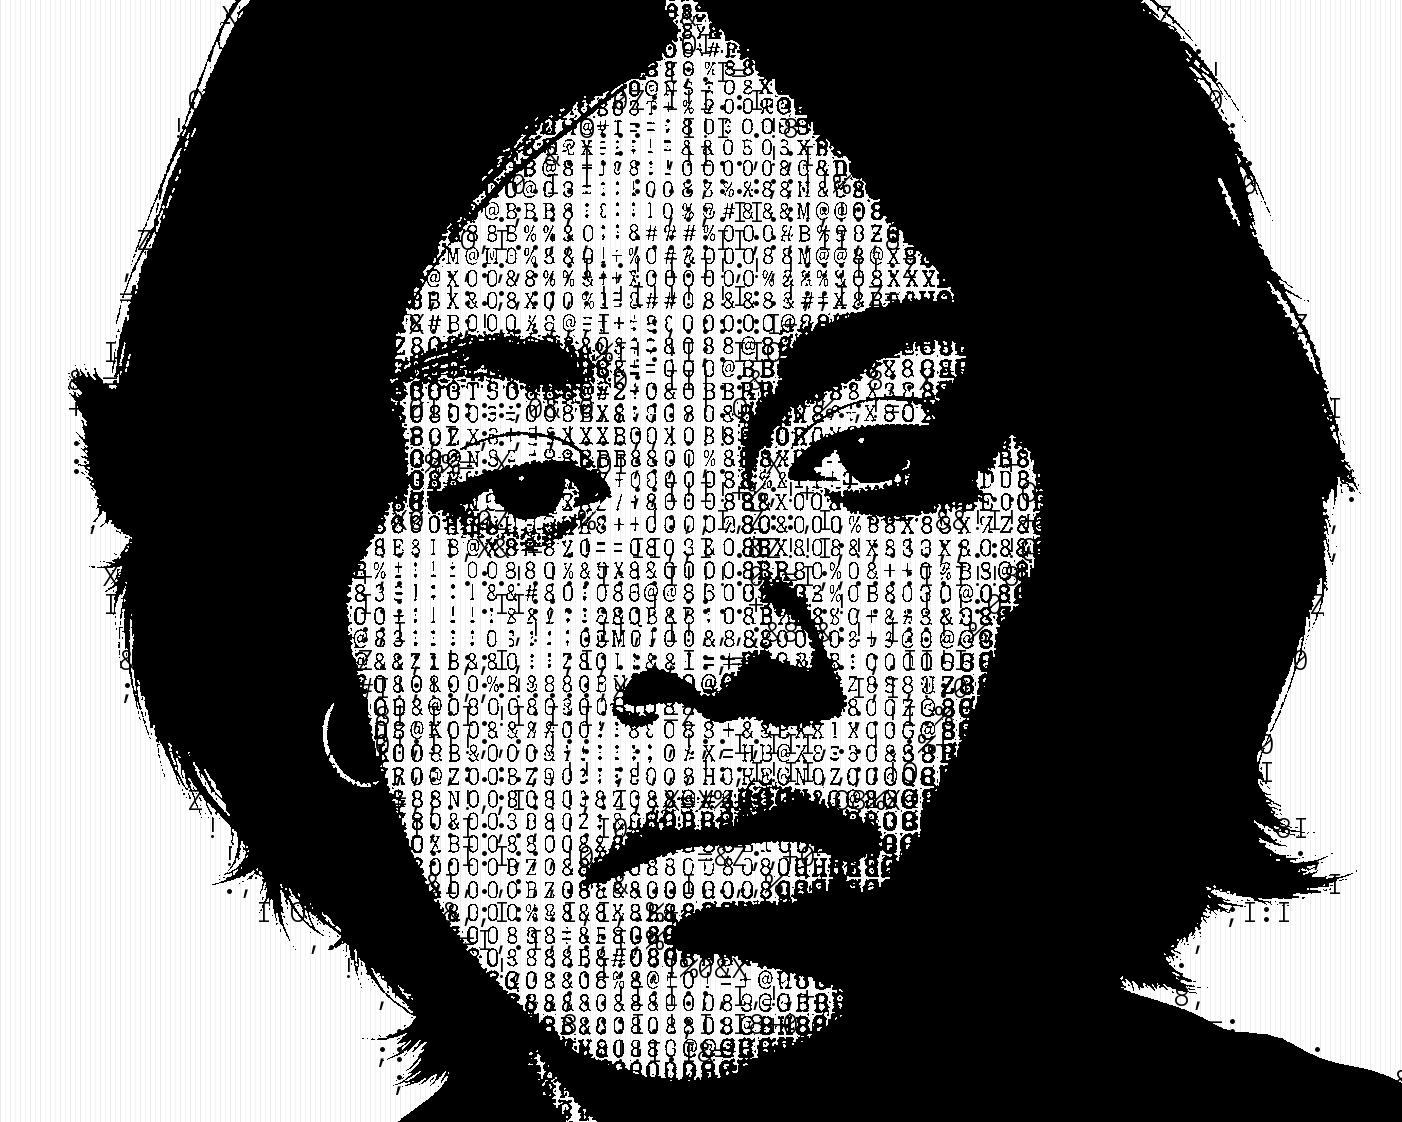
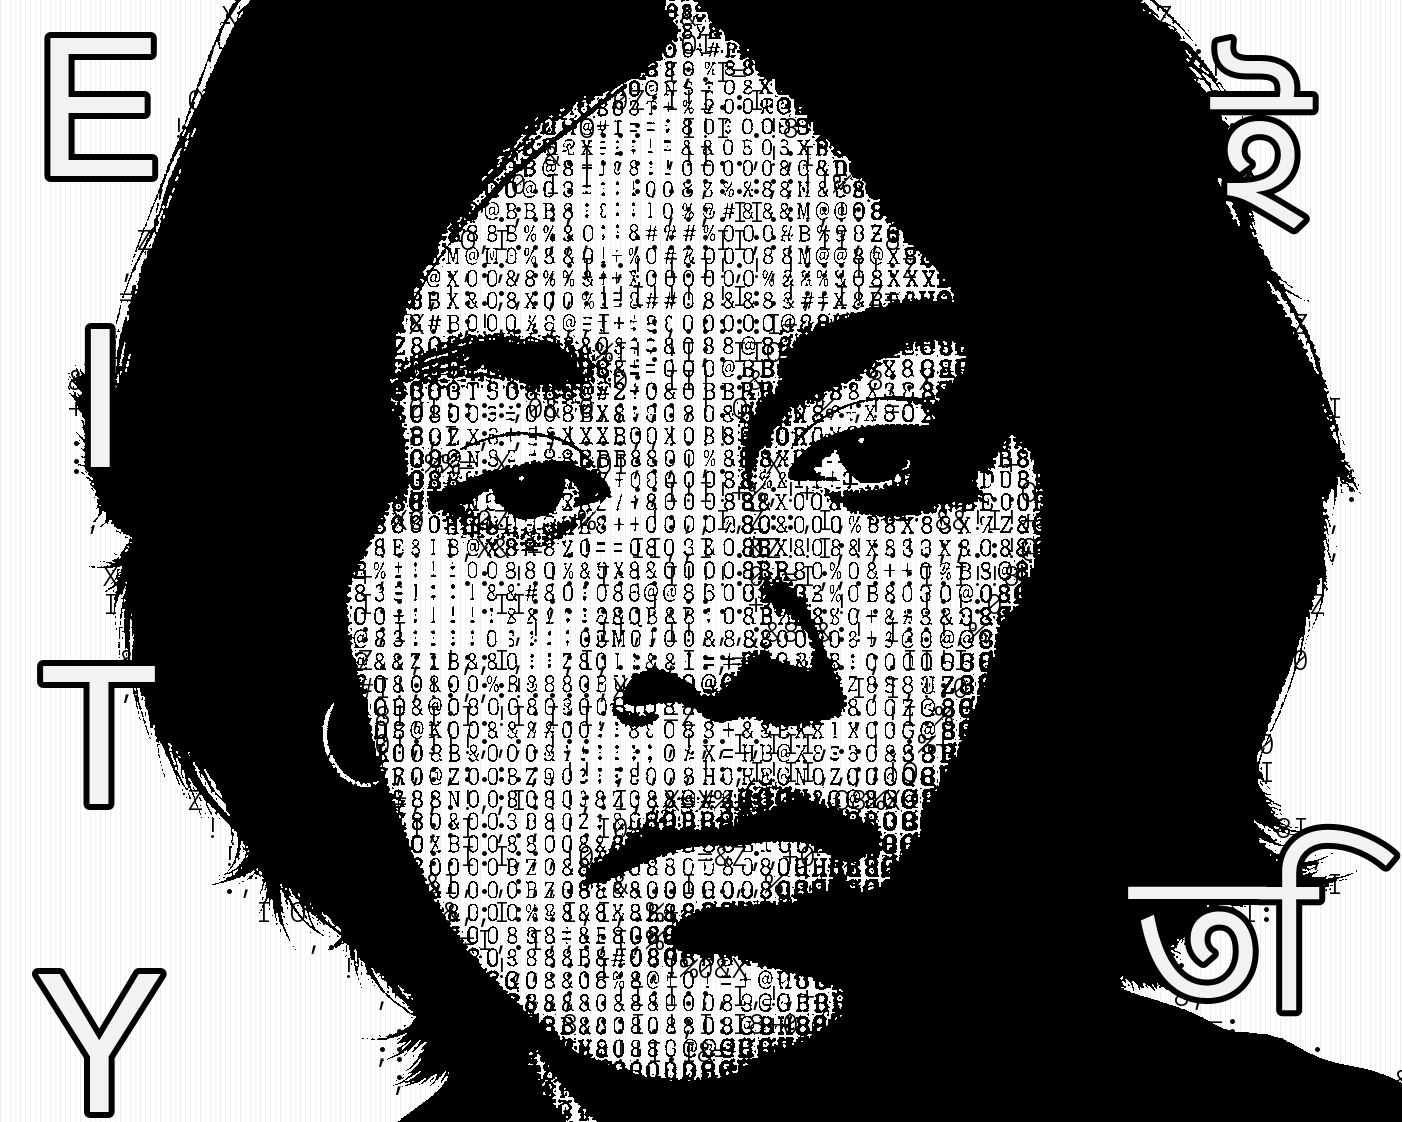
Add side label reveal to profile portrait

diff --git a/generate_typographic_portrait.py b/generate_typographic_portrait.py
@@ -21,6 +21,10 @@ GIF_OUTPUTS = [
     ROOT / "assets/profile/typographic-portrait-typing.gif",
 ]
 FONT_PATH = Path("/System/Library/Fonts/SFNSMono.ttf")
+LATIN_LABEL_FONT_PATH = Path("/System/Library/Fonts/Helvetica.ttc")
+BANGLA_LABEL_FONT_PATH = Path("/System/Library/Fonts/KohinoorBangla.ttc")
+LEFT_LABELS = ["E", "I", "T", "Y"]
+RIGHT_LABELS = ["ই", "তি"]
 
 
 def add_background(draw: ImageDraw.ImageDraw, width: int, height: int) -> None:
@@ -49,6 +53,68 @@ def draw_cursor(
 
 def as_gif_frame(frame: Image.Image) -> Image.Image:
     return frame.quantize(colors=16, method=Image.Quantize.MEDIANCUT)
+
+
+def draw_side_labels(
+    image: Image.Image,
+    left_count: int,
+    right_count: int,
+) -> Image.Image:
+    labeled = image.copy()
+    draw = ImageDraw.Draw(labeled)
+    width, height = labeled.size
+
+    font_size = max(92, round(height / 5.85))
+    latin_font = ImageFont.truetype(str(LATIN_LABEL_FONT_PATH), font_size)
+    bangla_font = ImageFont.truetype(str(BANGLA_LABEL_FONT_PATH), font_size)
+    stroke_width = max(3, font_size // 30)
+    fill = (242, 242, 242)
+    stroke_fill = (0, 0, 0)
+
+    def draw_stack(
+        labels: list[str],
+        font: ImageFont.FreeTypeFont,
+        reveal_count: int,
+        side: str,
+    ) -> None:
+        if reveal_count <= 0:
+            return
+
+        visible_labels = labels[:reveal_count]
+        if len(labels) == 4:
+            centers = np.array([0.095, 0.355, 0.655, 0.93]) * height
+        elif len(labels) == 2:
+            centers = np.array([0.12, 0.82]) * height
+        else:
+            top_margin = round(height * 0.09)
+            bottom_margin = round(height * 0.09)
+            centers = np.linspace(top_margin, height - bottom_margin, len(labels))
+
+        gutter_x = round(width * 0.07) if side == "left" else round(width * 0.90)
+
+        for idx, label in enumerate(visible_labels):
+            bbox = draw.textbbox(
+                (0, 0),
+                label,
+                font=font,
+                stroke_width=stroke_width,
+            )
+            glyph_w = bbox[2] - bbox[0]
+            glyph_h = bbox[3] - bbox[1]
+            x = round(gutter_x - glyph_w / 2 - bbox[0])
+            y = round(centers[idx] - glyph_h / 2 - bbox[1])
+            draw.text(
+                (x, y),
+                label,
+                font=font,
+                fill=fill,
+                stroke_width=stroke_width,
+                stroke_fill=stroke_fill,
+            )
+
+    draw_stack(LEFT_LABELS, latin_font, left_count, "left")
+    draw_stack(RIGHT_LABELS, bangla_font, right_count, "right")
+    return labeled
 
 
 def render() -> None:
@@ -125,15 +191,22 @@ def render() -> None:
             baseline_y = top - 2
             draw.text((left, baseline_y), char, font=font, fill="black")
 
+    labeled_out = draw_side_labels(out, len(LEFT_LABELS), len(RIGHT_LABELS))
+
     for output in OUTPUTS:
         output.parent.mkdir(parents=True, exist_ok=True)
-        out.save(output)
+        labeled_out.save(output)
 
     gif_width = 900
     gif_height = round(height * gif_width / width)
-    final_small = out.resize((gif_width, gif_height), Image.Resampling.NEAREST)
+    portrait_small = out.resize((gif_width, gif_height), Image.Resampling.NEAREST)
+    final_small = draw_side_labels(
+        portrait_small,
+        len(LEFT_LABELS),
+        len(RIGHT_LABELS),
+    )
 
-    bg_small = Image.new("RGB", final_small.size, "white")
+    bg_small = Image.new("RGB", portrait_small.size, "white")
     bg_draw = ImageDraw.Draw(bg_small)
     add_background(bg_draw, *final_small.size)
 
@@ -156,13 +229,13 @@ def render() -> None:
         frame = bg_small.copy()
         if row > 0:
             revealed_h = min(gif_height, row * scaled_cell_h)
-            region = final_small.crop((0, 0, gif_width, revealed_h))
+            region = portrait_small.crop((0, 0, gif_width, revealed_h))
             frame.paste(region, (0, 0))
         if revealed_cols > 0 and row < rows:
             top = row * scaled_cell_h
             bottom = min(gif_height, top + scaled_cell_h)
             revealed_w = min(gif_width, revealed_cols * scaled_cell_w)
-            region = final_small.crop((0, top, revealed_w, bottom))
+            region = portrait_small.crop((0, top, revealed_w, bottom))
             frame.paste(region, (0, top))
         return frame
 
@@ -189,8 +262,21 @@ def render() -> None:
             frames.append(as_gif_frame(next_line_frame))
             durations.append(120)
 
+    reveal_sequence = [
+        (1, 0),
+        (1, 1),
+        (2, 1),
+        (3, 1),
+        (4, 1),
+        (4, 2),
+    ]
+    for left_count, right_count in reveal_sequence:
+        label_frame = draw_side_labels(portrait_small, left_count, right_count)
+        frames.append(as_gif_frame(label_frame))
+        durations.append(150)
+
     frames.append(as_gif_frame(final_small))
-    durations.append(2600)
+    durations.append(2800)
 
     for output in GIF_OUTPUTS:
         output.parent.mkdir(parents=True, exist_ok=True)

diff --git a/README.md b/README.md
@@ -1,5 +1,5 @@
 <p align="center">
-  <img src="./typographic-portrait-typing.gif" alt="High-contrast black-and-white typographic portrait forming from left to right with real letters, numbers, and symbols" width="900" />
+  <img src="./typographic-portrait-typing.gif" alt="High-contrast black-and-white typographic portrait typing in from left to right, then revealing vertical EITY and ইতি side labels" width="900" />
 </p>
 
 <table>
